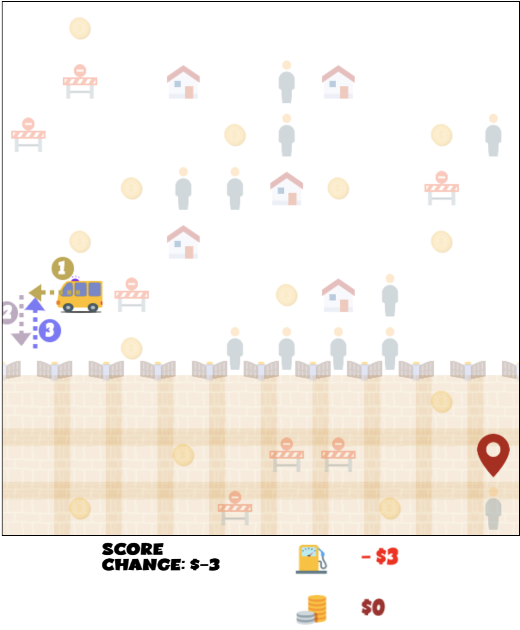
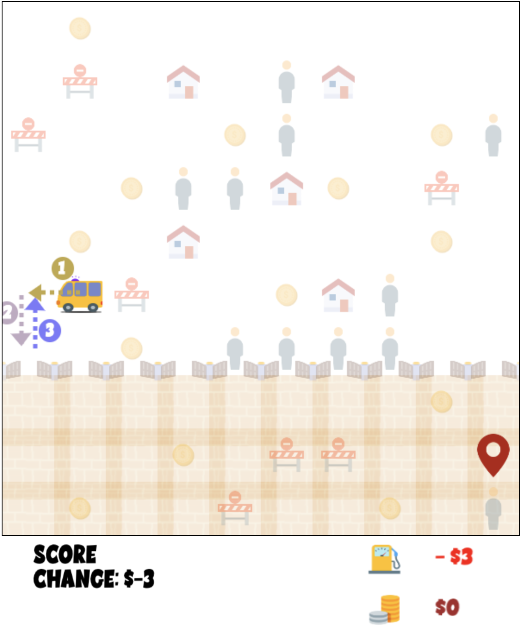
updated images

diff --git a/trajImageFormatter.py b/trajImageFormatter.py
@@ -6,11 +6,11 @@ import numpy as np
 def format(img,name):
     img = cv2.resize(img,(1240,800))
     game_screen = img[160:700,360:880]
-    score_screen_1 = img[150:230,890:1110]
-    score_screen_2 = img[260:370,940:1145]
+    score_screen_1 = img[150:230,880:1110]
+    score_screen_2 = img[260:370,900:1145]
 
-    score_screen_1 = cv2.resize(score_screen_1, (140,35))
-    score_screen_2 = cv2.resize(score_screen_2, (185,90))
+    score_screen_1 = cv2.resize(score_screen_1, (150,55))
+    score_screen_2 = cv2.resize(score_screen_2, (225,90))
     # cv2.imshow("score_screen_1",score_screen_1)
     # cv2.imshow("score_screen_2",score_screen_2)
     # cv2.waitKey(0)
@@ -36,8 +36,8 @@ def format(img,name):
 
     # print (score_screen_1.shape)
     # print (score_screen_2.shape)
-    score_screen_1 = cv2.copyMakeBorder(score_screen_1, 0,deltah1, 0, 0, cv2.BORDER_CONSTANT,value=[255,255,255])
-    score_screen_2 = cv2.copyMakeBorder(score_screen_2, 0,deltah2,0, 0, cv2.BORDER_CONSTANT,value=[255,255,255])
+    score_screen_1 = cv2.copyMakeBorder(score_screen_1, 0,deltah1, 0, 50, cv2.BORDER_CONSTANT,value=[255,255,255])
+    score_screen_2 = cv2.copyMakeBorder(score_screen_2, 0,deltah2,50, 0, cv2.BORDER_CONSTANT,value=[255,255,255])
     score_screen = np.hstack([score_screen_1, score_screen_2])
 
     h4,w4,_ = score_screen.shape
@@ -51,13 +51,13 @@ def format(img,name):
     res = np.vstack([game_screen, score_screen])
     cv2.imwrite("assets/trajImages/"+str(name) + ".png",res)
 
-    cv2.imshow("res",res)
-    cv2.imshow("score_screen_1",score_screen)
-    # cv2.imshow("score_screen_2",score_screen_2)
-    cv2.imshow("game_screen",game_screen)
-
-    cv2.waitKey(0)
-    cv2.destroyAllWindows()
+    # cv2.imshow("res",res)
+    # cv2.imshow("score_screen_1",score_screen)
+    # # cv2.imshow("score_screen_2",score_screen_2)
+    # cv2.imshow("game_screen",game_screen)
+    #
+    # cv2.waitKey(0)
+    # cv2.destroyAllWindows()
 
 for i in range (1,7):
     img = cv2.imread("/Users/stephanehatgiskessell/Desktop/ex"+str(i)+".png")
